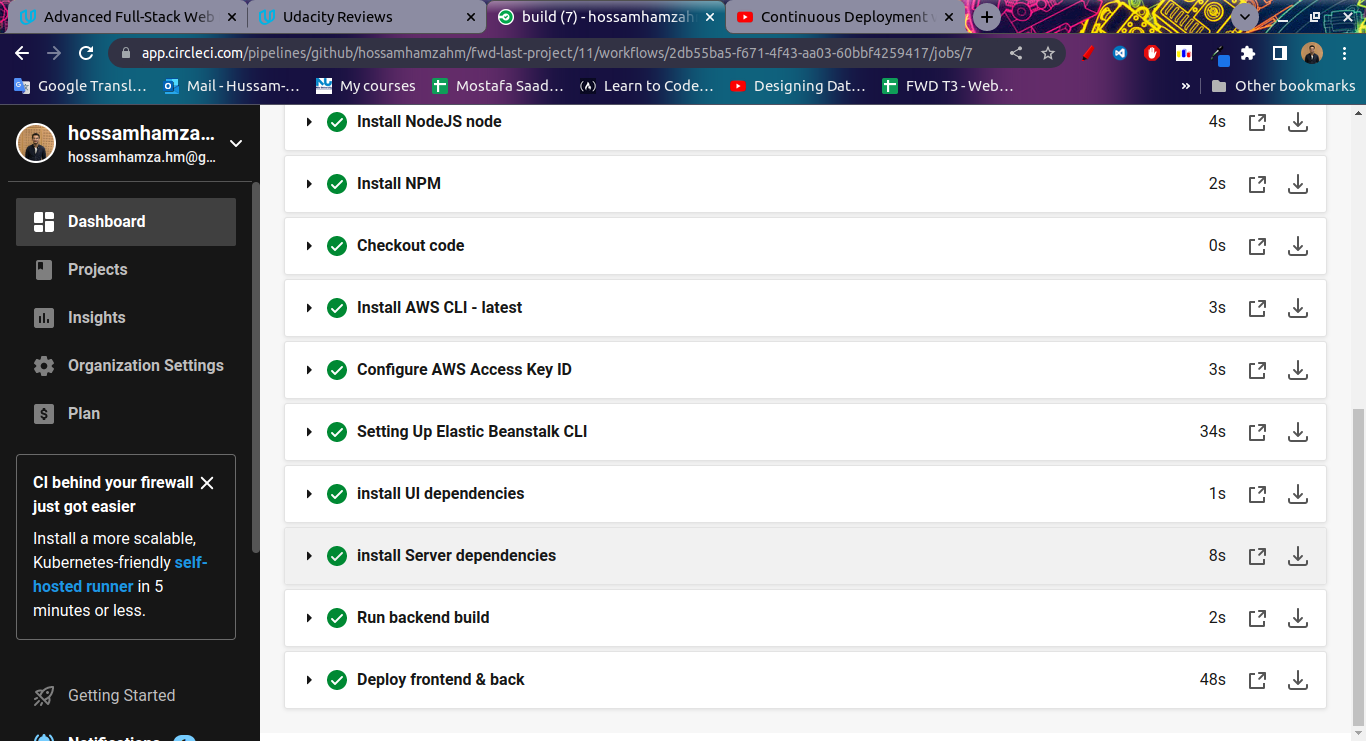
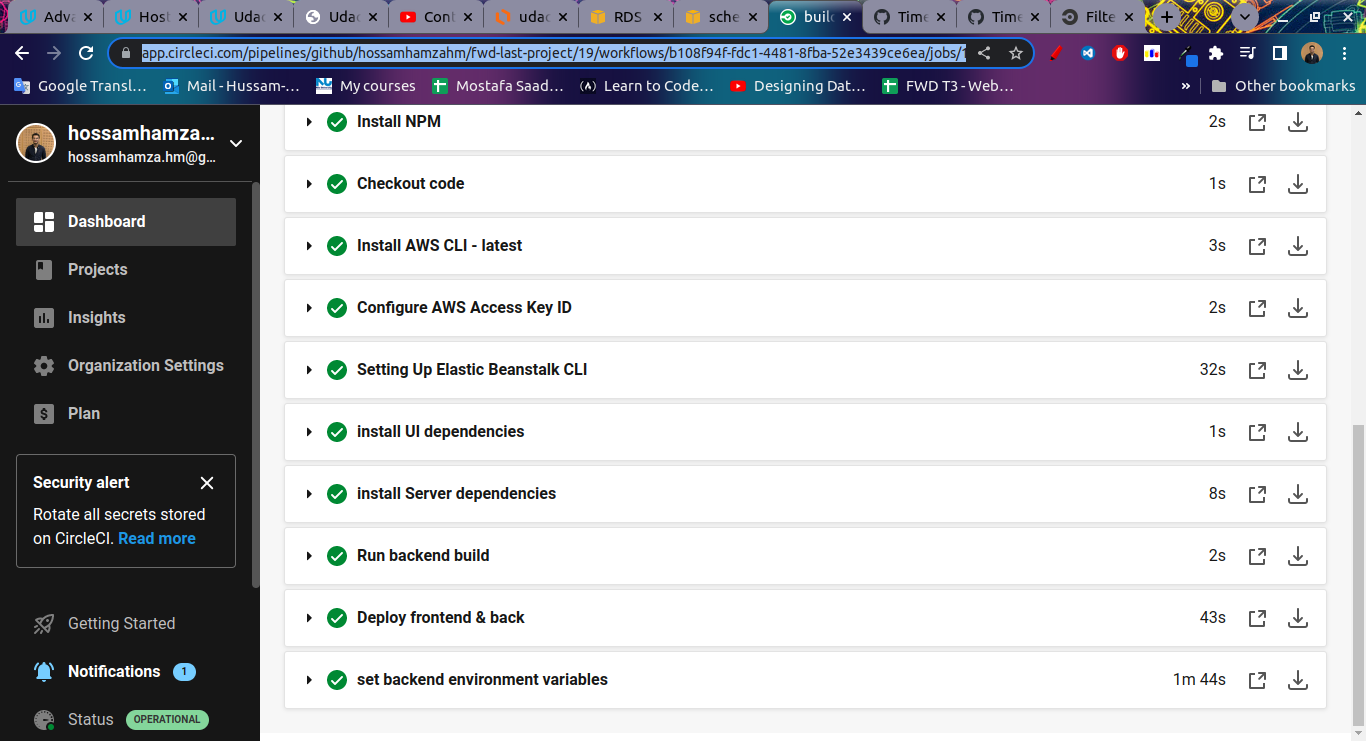
docs/ add app dependencies, infrastructure and pipeline docs

diff --git a/readme.md b/readme.md
@@ -25,21 +25,11 @@
 #### A screenshot of the last build is found the [docs directory](https://github.com/hossamhamzahm/fwd-last-project/tree/main/docs) in the Github repository 
 
 
-#### Documentation of the pipeline:
-    - Circleci is triggered once a new commit is pushed to Github and starts the pipeline process
-    - Spin up the environment and setup environment variables
-    - Install node, NPM, AWS CLI, EB CLI
-    - Configure AWS credentials
-    - Install UI Dependencies
-    - Install Server Dependencies
-    - Run Builds
-    - Deploy frontend & backend:
-        - Deploy frontend to S3 bucket
-        - Deploy backend to eb
+#### Documentation of the pipeline found in the [Pipeline process.md](https://github.com/hossamhamzahm/fwd-last-project/tree/main/docs) file in the docs directory
 
 
 > Click on the status icon to view the pipeline
-[![Status Badge](https://circleci.com/gh/hossamhamzahm/fwd-circleci-training.svg?style=svg)](https://app.circleci.com/pipelines/github/hossamhamzahm/fwd-circleci-training/13/workflows/78d52ac1-94a7-452e-940f-9f1b37cfa125/jobs/13)
+[![Status Badge](https://circleci.com/gh/hossamhamzahm/fwd-circleci-training.svg?style=svg)](https://app.circleci.com/pipelines/github/hossamhamzahm/fwd-last-project/19/workflows/b108f94f-fdc1-4481-8fba-52e3439ce6ea/jobs/13)
 
 
 #### Architecture diagram for an overview of the infrastructure and the pipeline

diff --git a/docs/App dependencies.md b/docs/App dependencies.md
@@ -1,0 +1,30 @@
+## App Dependencies
+> Note: all dependencies can be installed using `npm run install`
+
+
+#### All App Dependencies Listed:
+    - cors
+    - express
+    - jsonwebtoken
+    - mysql
+    - swagger-jsdoc
+    - swagger-ui-express
+    - ts-watch
+
+
+#### All App Development Dependencies Listed:
+    - @types/bcrypt
+    - @types/cors
+    - @types/db-migrate-pg
+    - @types/dotenv
+    - @types/express
+    - @types/jsonwebtoken
+    - @types/swagger-jsdoc
+    - @types/swagger-ui-express
+    - bcrypt
+    - db-migrate
+    - db-migrate-mysql
+    - dotenv
+    - ts-node
+    - tsc-watch
+    - typescript

diff --git a/docs/Pipeline process.md b/docs/Pipeline process.md
@@ -1,0 +1,14 @@
+## Pipeline Process Documentation:
+
+#### Documentation of the pipeline:
+    - Circleci is triggered once a new commit is pushed to Github and starts the pipeline process
+    - Spin up the environment and setup environment variables
+    - Install node, NPM, AWS CLI, EB CLI
+    - Configure AWS credentials
+    - Install UI Dependencies
+    - Install Server Dependencies
+    - Run Builds
+    - Deploy frontend & backend:
+        - Deploy frontend to S3 bucket
+        - Deploy backend to eb
+    - Set All backend environment variables

diff --git a/docs/Infrastructure description.md b/docs/Infrastructure description.md
@@ -1,0 +1,8 @@
+### Infrastructure Description:
+    - Frontend code is hosted on a S3 bucket and served as a static website
+    - Backend APIs are hosted on an eb with all needed environment variables and configurations
+    - The database instance is Mysql database hosted on Amazon RDS
+    - The process goes as the following:
+        - Client requests the frontend code form the S3 bucket 
+        - After the client receives the frontend code, the frontend code requests the api
+        - The API queries the RDS then responds to the frontend
